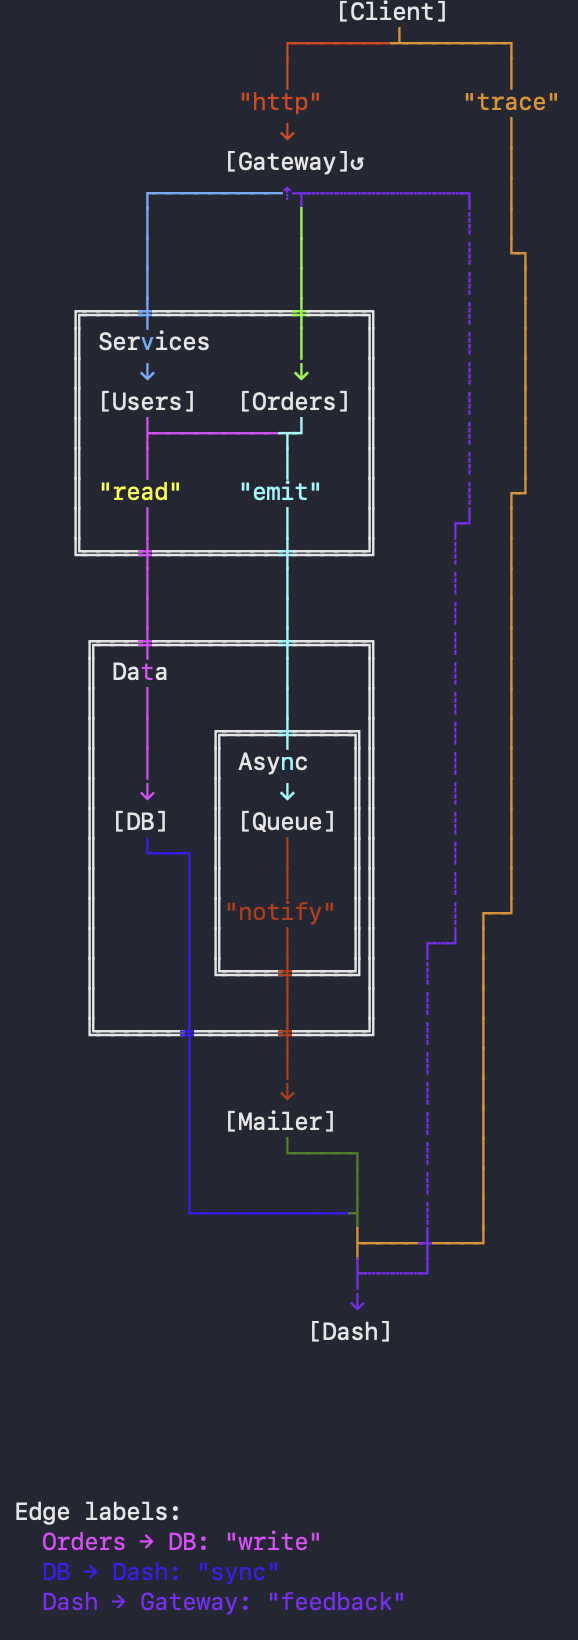
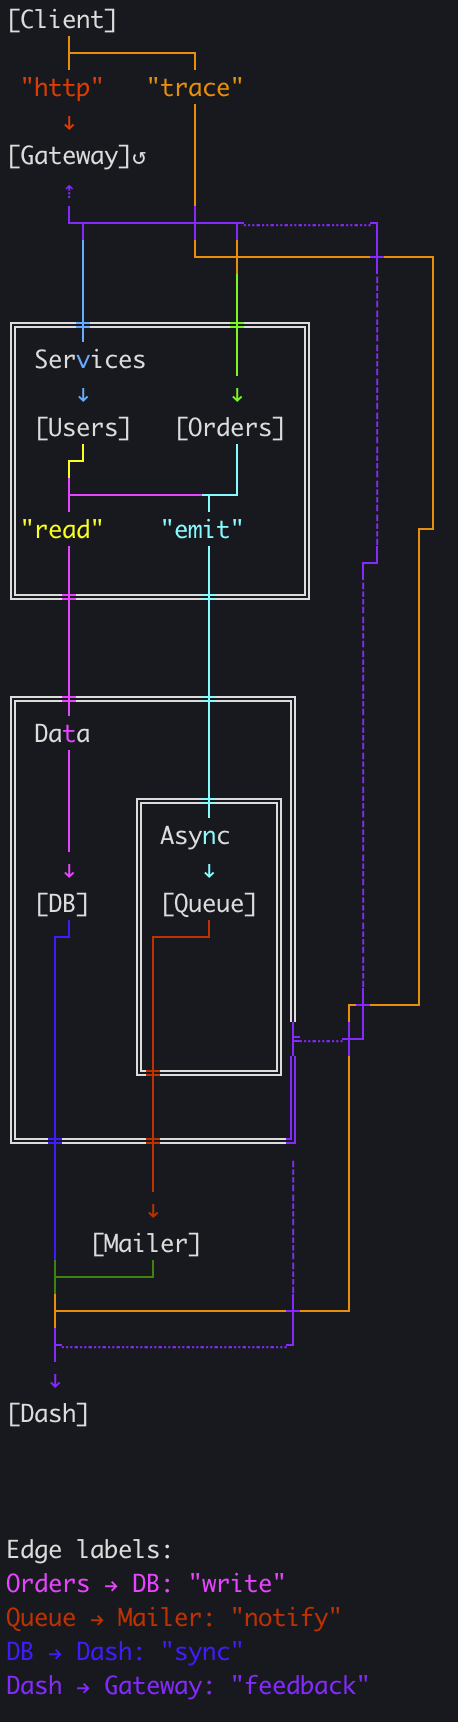
Add --dummy to hero, document bare-metal examples
The hero example now supports `--dummy` for routing waypoints. The
examples README documents the bare-metal demo crates (`longan_nano`,
`rp2040_pico`, `esp32s3`) with their build constraints (no allocator,
optimized release profile).

diff --git a/examples/longan_nano/src/main.rs b/examples/longan_nano/src/main.rs
@@ -13,14 +13,25 @@ use longan_nano::{lcd, lcd_pins};
 use riscv_rt::entry;
 
 use ascii_dag::algorithms::sugiyama::config::LayoutConfig;
+use ascii_dag::graph::Direction;
 use ascii_dag::graph::arena::Arena;
 use ascii_dag::graph::csr::CsrGraphBuilder;
+use ascii_dag::render::engine::RenderOptions;
 
 /// Render a DAG on the Longan Nano's 160×80 LCD.
 ///
-/// Pure arena mode — no heap allocator.
-/// Total stack usage: ~6 KB (fits easily in 20 KB RAM).
+/// Pure arena mode — no heap allocator, every buffer on the stack.
 /// LCD: 160×80 px, FONT_4X6 → 40 chars × 13 lines.
+///
+/// Two choices matter on this display:
+///
+/// * **ASCII charset.** `FONT_4X6` has no box-drawing glyphs, so the
+///   render uses `RenderOptions::ascii()` — the same canvas decoded
+///   through the ASCII table (`+ - | >` instead of `┌ ─ │ →`).
+/// * **LeftRight direction.** 40 columns × 13 lines is a wide, short
+///   window, and a chain laid out top-down runs out of lines long
+///   before it runs out of columns. LR turns levels into columns and
+///   fits the same graph in a few rows.
 #[entry]
 fn main() -> ! {
     let dp = pac::Peripherals::take().unwrap();
@@ -60,7 +71,7 @@ fn main() -> ! {
         .build();
 
     // Title
-    Text::new("ascii-dag (no_alloc)", Point::new(2, 6), title_style)
+    Text::new("ascii-dag LR/ascii (no_alloc)", Point::new(2, 6), title_style)
         .draw(&mut lcd)
         .unwrap();
 
@@ -68,6 +79,10 @@ fn main() -> ! {
     let mut graph_buf = [0u8; 1024];
     let mut output_buf = [0u8; 2048];
     let mut temp_buf = [0u8; 2048];
+    // The render engine carves its plan + band canvas from an arena of
+    // its own, and writes text into a plain byte buffer.
+    let mut render_buf = [0u8; 4096];
+    let mut text_buf = [0u8; 2048];
 
     // ── Build graph ────────────────────────────────────────
     let mut graph_arena = Arena::new(&mut graph_buf);
@@ -86,25 +101,25 @@ fn main() -> ! {
     let graph = builder.build().unwrap();
 
     // ── Compute layout ─────────────────────────────────────
+    // Levels become columns: the chain runs across the 40-column
+    // display instead of down its 13 lines.
+    let mut config = LayoutConfig::standard();
+    config.direction = Direction::LeftRight;
+
     let mut output_arena = Arena::new(&mut output_buf);
     let layout = {
         let mut temp_arena = Arena::new(&mut temp_buf);
-        graph.compute_layout_arena(
-            &LayoutConfig::standard(),
-            &mut temp_arena,
-            &mut output_arena,
-        )
+        graph.compute_layout_arena(&config, &mut temp_arena, &mut output_arena)
     };
 
     match layout {
         Ok(ir) => {
-            // Reuse temp_buf for rendered text (temp_arena was dropped)
-            let render_buf = &mut temp_buf;
-            let mut line_chars = [' '; 80];
-            let mut scratch = [0usize; 80];
+            // ASCII charset: FONT_4X6 has no box-drawing glyphs.
+            let options = RenderOptions::ascii();
+            let render_arena = Arena::new(&mut render_buf);
 
-            if let Some(bytes) = ir.render_to_buffer(render_buf, &mut line_chars, &mut scratch) {
-                if let Ok(text) = core::str::from_utf8(&render_buf[..bytes]) {
+            if let Ok(bytes) = ir.render_to_bytes(&options, &render_arena, &mut text_buf) {
+                if let Ok(text) = core::str::from_utf8(&text_buf[..bytes]) {
                     // Draw DAG output line by line
                     // Title at y=6, leave gap, start DAG at y=14
                     let mut y = 14;

diff --git a/examples/hero.rs b/examples/hero.rs
@@ -10,6 +10,7 @@
 //! - Self-cycle (node loops back to itself)
 //! - Reversed edge (back-edge, renders with dashed lines)
 //! - All four rank directions (levels as rows, or as columns)
+//! - Routing waypoints made visible (`--dummy`)
 //! - ASCII charset (pure-ASCII glyph projection of the same canvas)
 //!
 //! Run:
@@ -19,15 +20,16 @@
 //!   cargo run --example hero -- --lr      # LeftRight (flags combine)
 //!   cargo run --example hero -- --rl      # RightLeft (flags combine)
 //!   cargo run --example hero -- --ascii   # ASCII glyphs (flags combine)
+//!   cargo run --example hero -- --dummy   # mark routing waypoints
 //!   cargo run --example hero -- --csr     # arena pipeline (byte-identical)
 //!
 //! `--lr`/`--rl` lay the same graph out sideways: levels become
 //! columns and edges run in horizontal trunks, which suits wide,
 //! shallow graphs. Every flag combines with every other.
 
-use ascii_dag::Direction;
 use ascii_dag::render::colors::Palette;
 use ascii_dag::render::engine::{Charset, RenderOptions};
+use ascii_dag::{Direction, LayoutConfig};
 
 include!("shared/hero_graph.rs");
 
@@ -41,6 +43,9 @@ fn main() {
     let args: Vec<String> = std::env::args().collect();
     let use_color = args.iter().any(|a| a == "--color" || a == "-c");
     let ascii = args.iter().any(|a| a == "--ascii" || a == "-a");
+    // Routing waypoints need BOTH switches: the layout must emit them
+    // into the IR, and the renderer must draw their marker.
+    let dummy = args.iter().any(|a| a == "--dummy" || a == "-d");
     // Last direction flag wins (scanning from the end finds it
     // first), so `--lr --rl` is RightLeft. Unflagged stays TopDown.
     if let Some(dir) = args.iter().rev().find_map(|a| match a.as_str() {
@@ -52,21 +57,9 @@ fn main() {
         g.set_direction(dir);
     }
 
-    if csr::requested() {
-        // Same graph, arena pipeline — byte-identical output.
-        let mut opts = if use_color {
-            RenderOptions::colored(Palette::Ansi)
-        } else {
-            RenderOptions::plain()
-        };
-        if ascii {
-            opts.charset = Charset::Ascii;
-        }
-        println!("{}", csr::render(&g, &opts));
-        return;
-    }
-
-    let ir = g.compute_layout();
+    let mut config = LayoutConfig::standard();
+    config.direction = g.direction();
+    config.include_dummy_nodes = dummy;
 
     let mut opts = if use_color {
         RenderOptions::colored(Palette::Ansi)
@@ -76,6 +69,15 @@ fn main() {
     if ascii {
         opts.charset = Charset::Ascii;
     }
+    opts.show_dummy_nodes = dummy;
+
+    if csr::requested() {
+        // Same graph, arena pipeline — byte-identical output.
+        println!("{}", csr::render_with(&g, &opts, &config));
+        return;
+    }
+
+    let ir = g.compute_layout_with_config(&config);
     println!("{}", ir.render_string(&opts));
 
     // Print stats

diff --git a/examples/support/csr.rs b/examples/support/csr.rs
@@ -42,7 +42,8 @@ pub fn render_with(
     let mut csr_buf = vec![0u8; g.estimate_csr_arena_size() * 2];
     let mut csr_arena = Arena::new(&mut csr_buf);
     let csr = g.to_csr(&mut csr_arena).expect("CSR conversion");
-    let size = (g.estimate_layout_arena_size() * 2).max(256 * 1024);
+    // Size with the config: `include_dummy_nodes` grows the IR.
+    let size = (g.estimate_layout_arena_size_with(config) * 2).max(256 * 1024);
     let mut temp_buf = vec![0u8; size];
     let mut out_buf = vec![0u8; size];
     let mut temp_arena = Arena::new(&mut temp_buf);

diff --git a/examples/README.md b/examples/README.md
@@ -24,7 +24,7 @@ cargo run --example node_painting --features arena -- --csr
 | `topological_sort` | Topological ordering (no rendering) |
 | `dummy_nodes` | Routing waypoints: `include_dummy_nodes` (IR) + `show_dummy_nodes` (◍ markers) |
 | `hit_test` | Interactive mouse hit-testing (raw ANSI mouse reports, zero deps); `--probe X Y` for scripts |
-| `hero` | The showcase graph; `--bt`/`--lr`/`--rl` (direction), `--ascii`, `--color` |
+| `hero` | The showcase graph; `--bt`/`--lr`/`--rl` (direction), `--ascii`, `--color`, `--dummy` (mark routing waypoints), `--csr` |
 | `hero_colored` | Colored hero with the legend |
 | `layout_ir_demo` | The layout IR: positions, JSON export |
 | `lean_render` | Direct no-alloc build: `CsrGraphBuilder` + `render_to_bytes` |
@@ -32,6 +32,13 @@ cargo run --example node_painting --features arena -- --csr
 | `content_overhead` | Measured node-content storage cost, simple vs boxed vs custom |
 | `stress_test` | Large-graph shapes (deep, wide, dense) |
 | `subgraph_stress` | Cluster-heavy layouts |
+
+Bare-metal demos live in their own crates (`longan_nano`, `rp2040_pico`,
+`esp32s3`) — build them from their own directory. `longan_nano` renders
+to a 160×80 LCD with `RenderOptions::ascii()` (its `FONT_4X6` has no
+box-drawing glyphs) and `Direction::LeftRight` (40 columns × 13 lines
+is wide and short, so levels-as-columns fits where top-down does not);
+its whole working set is ~10 KB of stack, no allocator.
 
 `docs/nodes.md` covers the node-content API; `docs/migrate-from-0.9.md`
 covers upgrading.

diff --git a/README.md b/README.md
@@ -9,7 +9,10 @@ layout (cycle breaking, layering, crossing reduction, edge routing)
 with a terminal renderer. Zero dependencies. `no_std` ready — the
 arena pipeline runs without a heap allocator.
 
-<img src="assets/hero_colored_heap.png" alt="hero example — colored output" width="300"/>
+<img src="assets/hero_colored_heap.png" alt="hero example — heap colored output" height="700"/>
+<img src="assets/hero_arena_rl_dummy.png" alt="hero example — arena colored output with dummy enabled" height="300"/>
+<img src="assets/longan_nano.jpg" alt="longan_nano ascii output" height="300"/>
+
 
 ## Example
 
